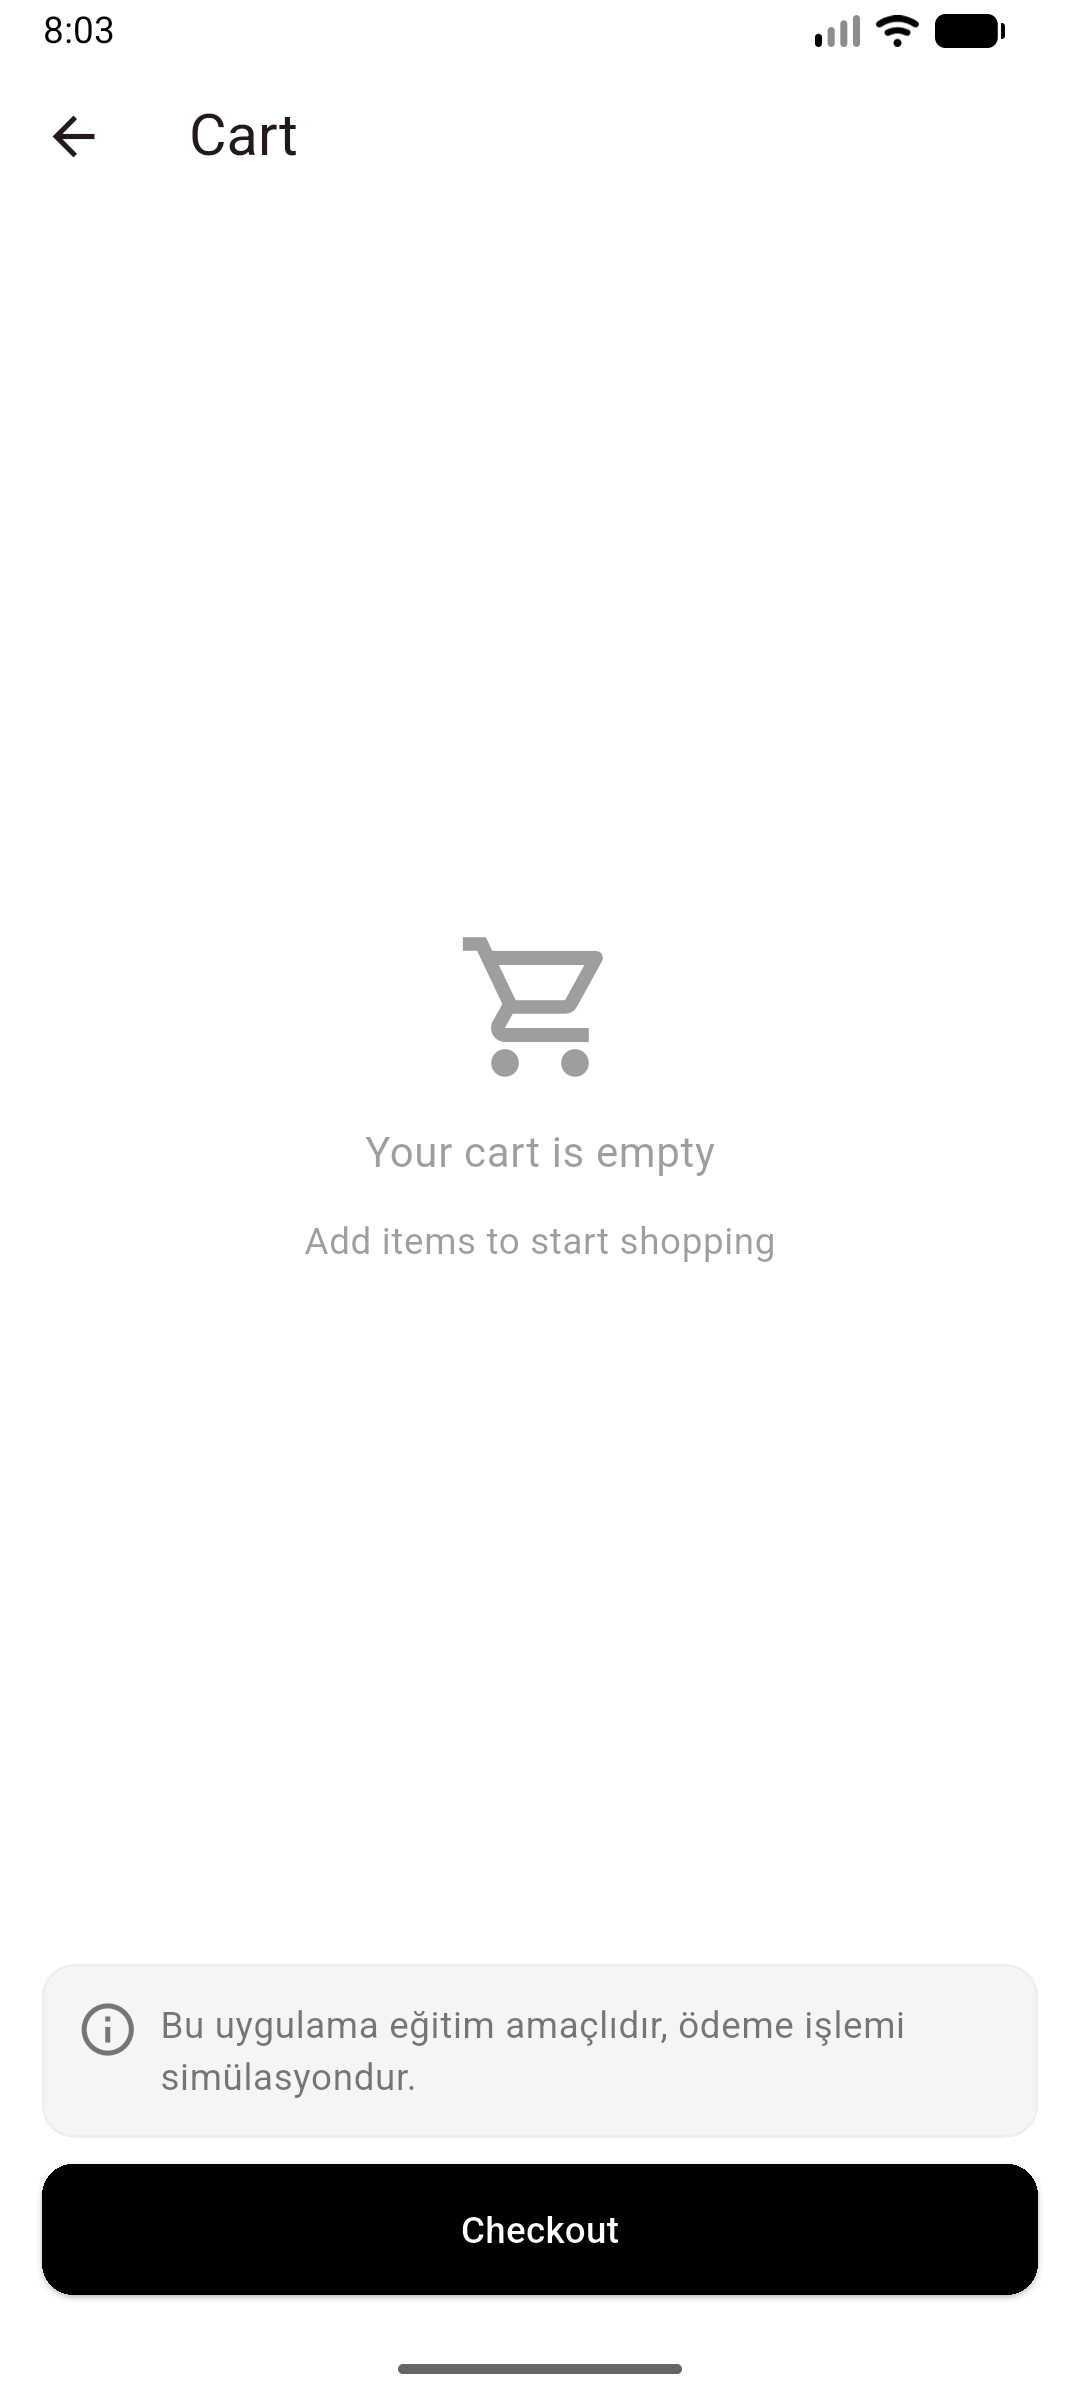
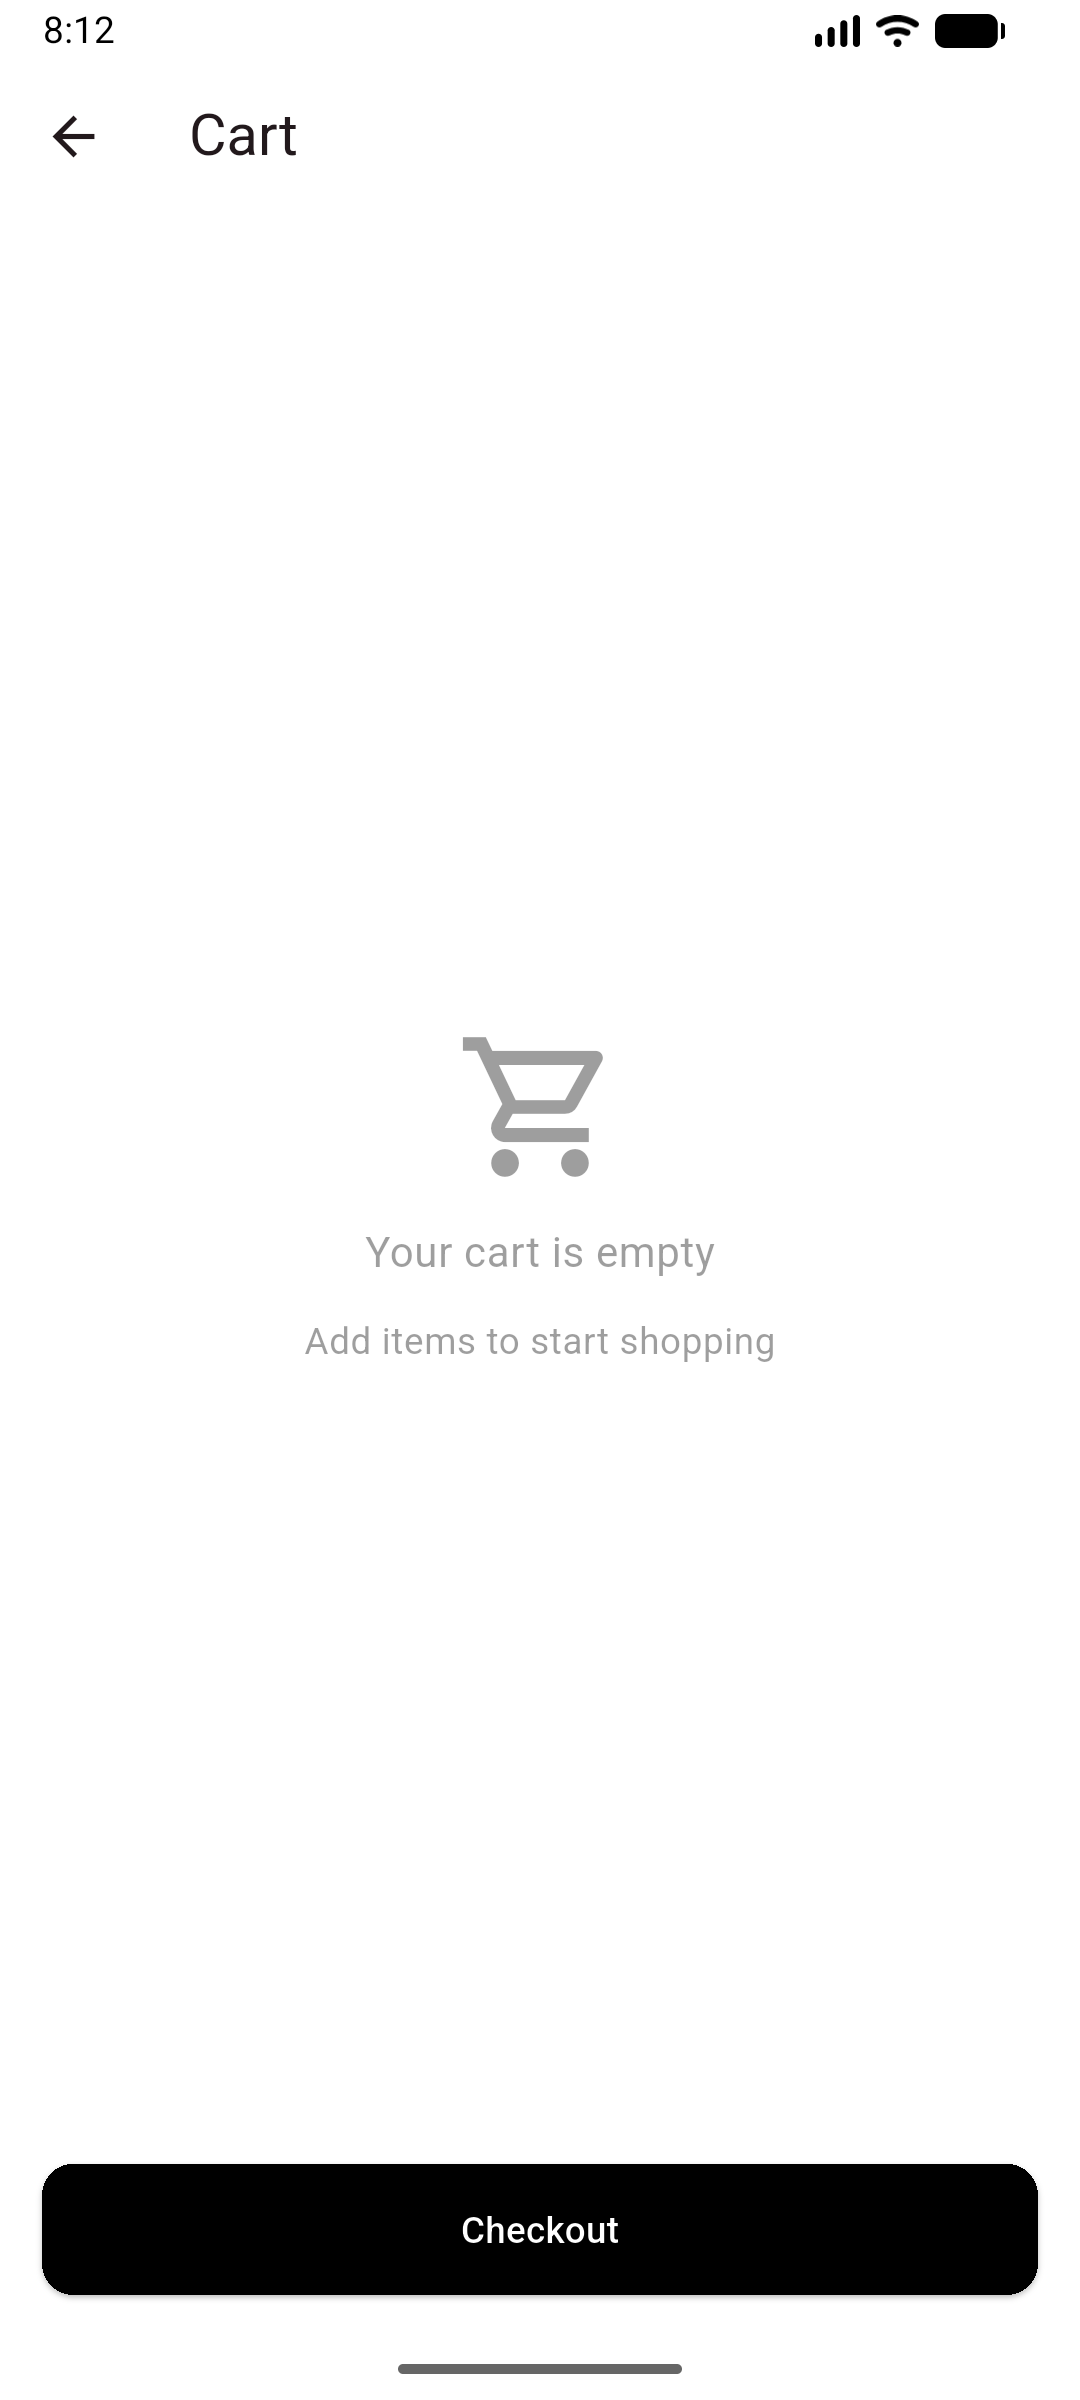
ekran görüntüleri güncellendi

diff --git a/lib/views/cart_screen.dart b/lib/views/cart_screen.dart
@@ -47,28 +47,6 @@ class _CartScreenState extends State<CartScreen> {
                       ),
               ),
               const SizedBox(height: 10),
-              Container(
-                padding: const EdgeInsets.all(12),
-                decoration: BoxDecoration(
-                  color: Colors.grey.shade100,
-                  borderRadius: BorderRadius.circular(12),
-                  border: Border.all(color: Colors.grey.shade200),
-                ),
-                child: Row(
-                  crossAxisAlignment: CrossAxisAlignment.start,
-                  children: [
-                    Icon(Icons.info_outline, color: Colors.grey.shade600),
-                    const SizedBox(width: 8),
-                    Expanded(
-                      child: Text(
-                        'Bu uygulama eğitim amaçlıdır, ödeme işlemi simülasyondur.',
-                        style: TextStyle(color: Colors.grey.shade600),
-                      ),
-                    ),
-                  ],
-                ),
-              ),
-              const SizedBox(height: 10),
               ElevatedButton(
                 onPressed: () {},
                 style: ElevatedButton.styleFrom(
